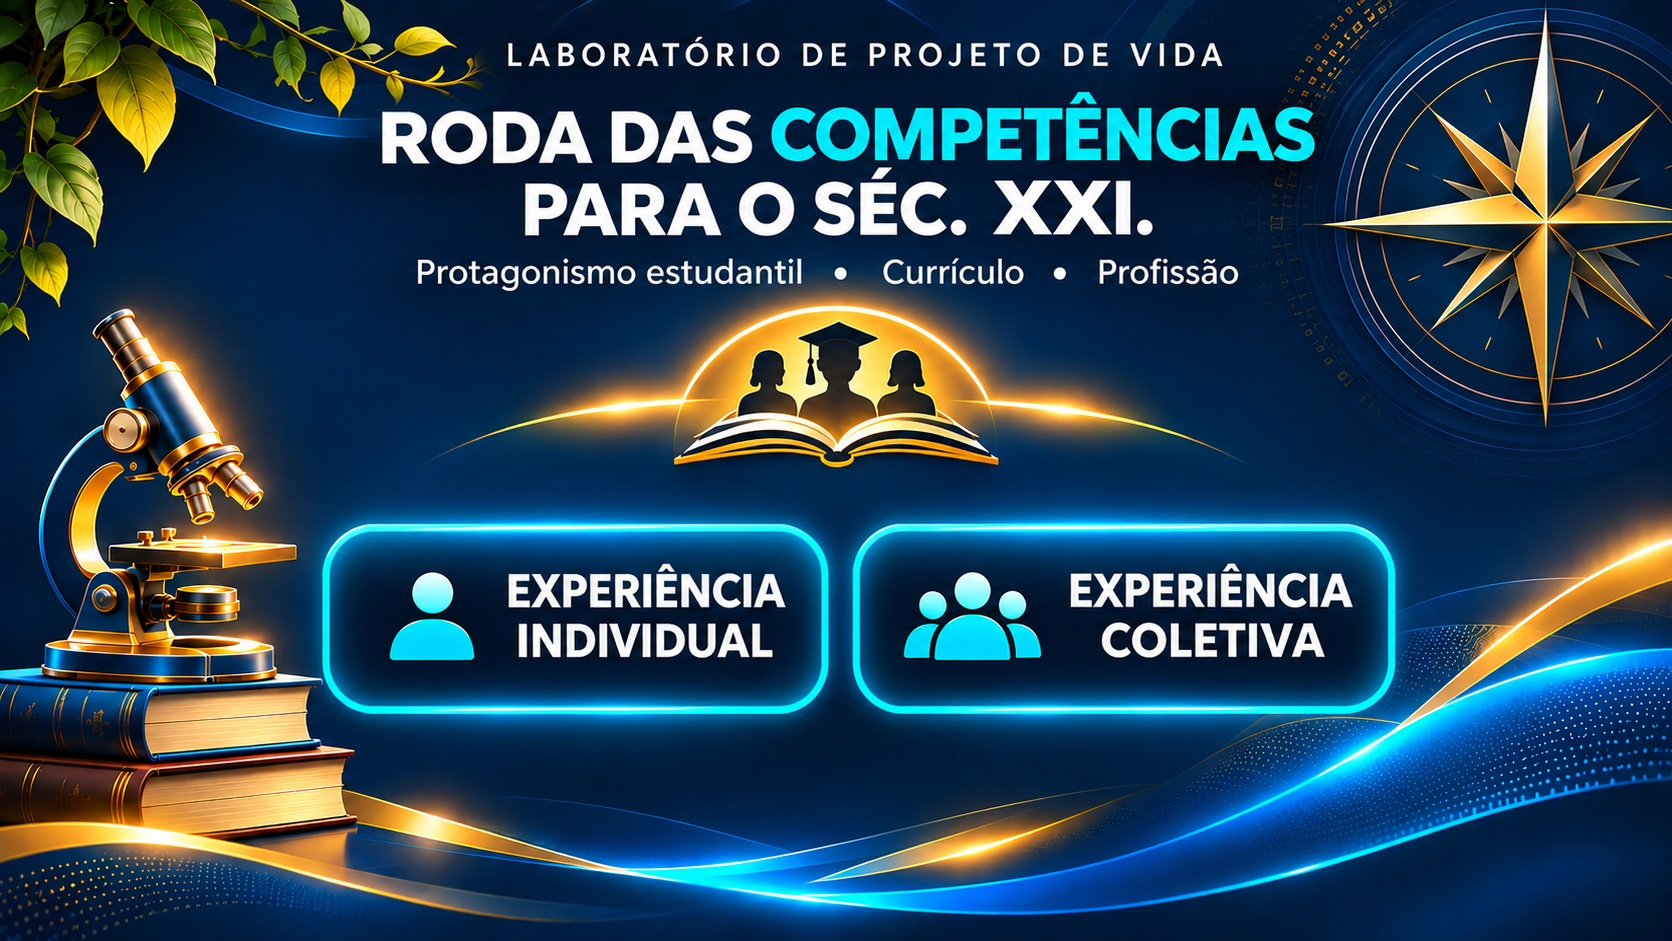
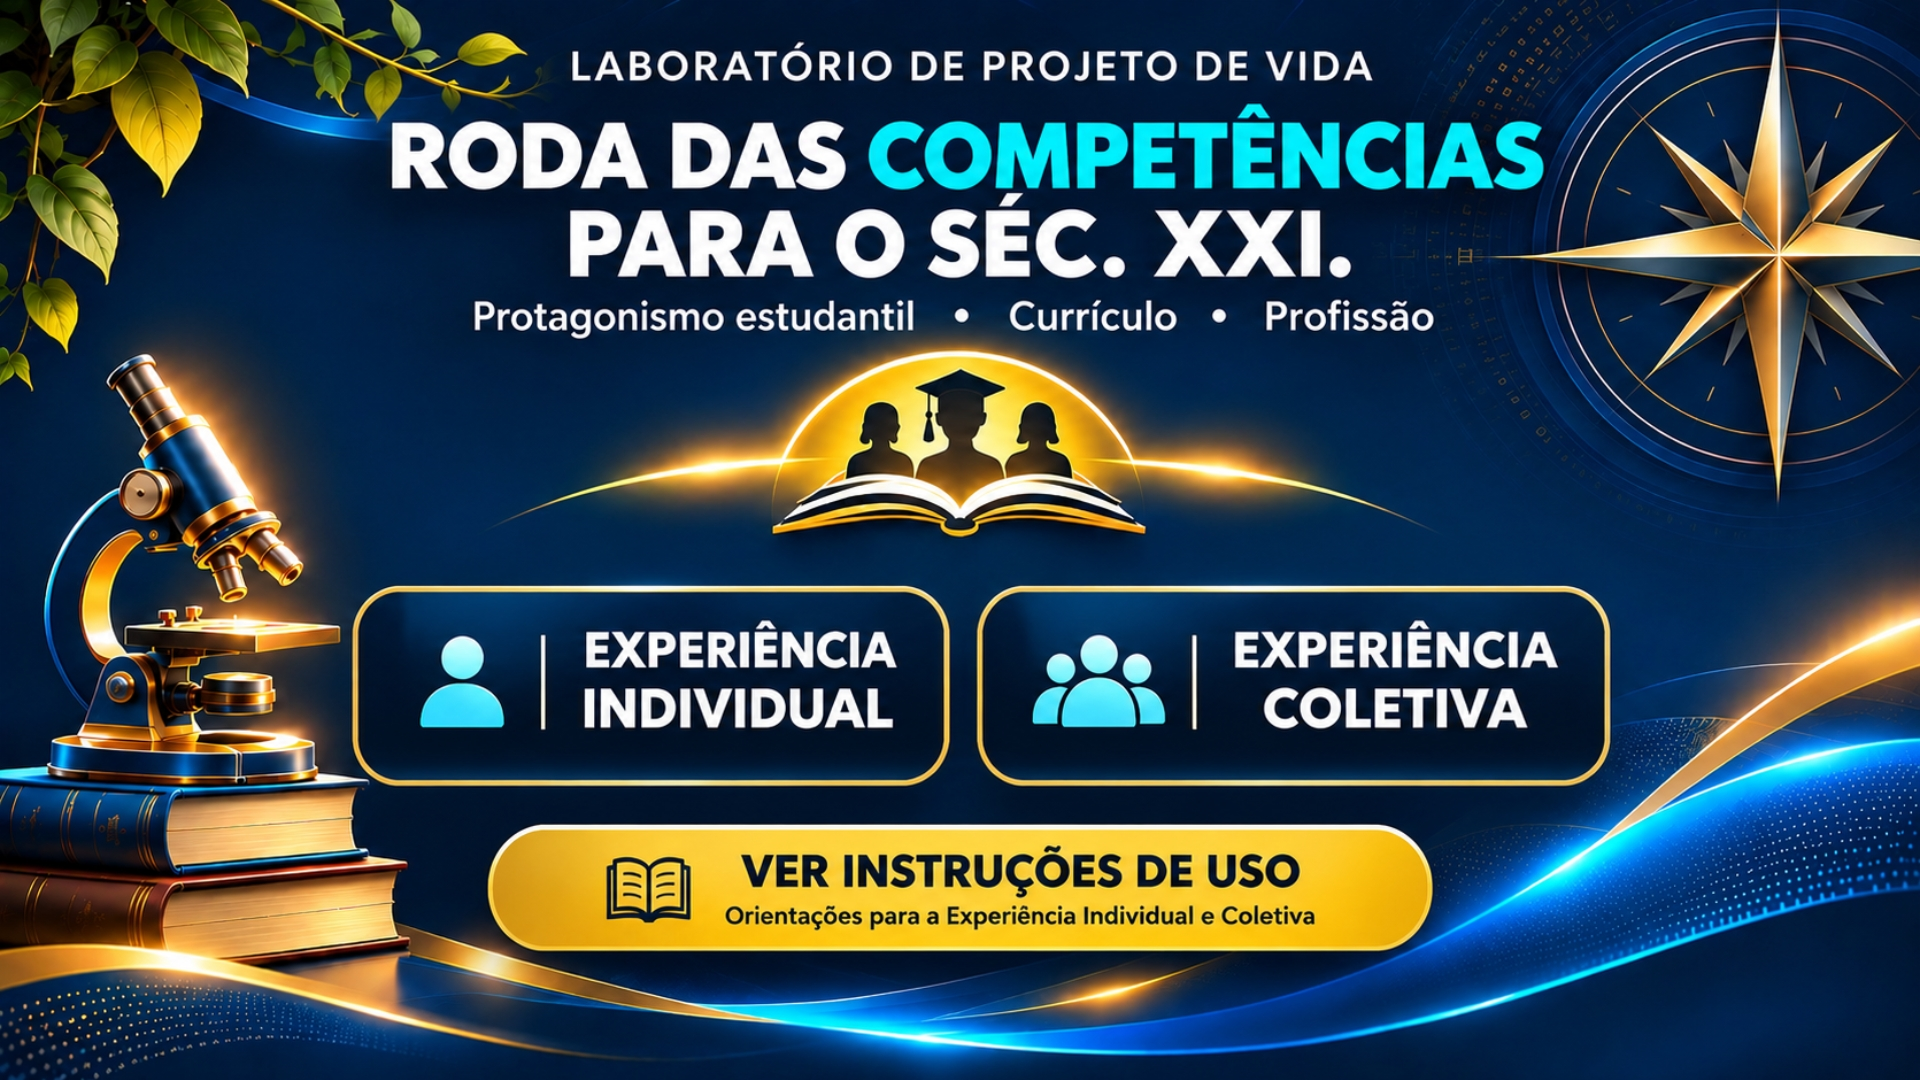
Add files via upload

diff --git a/style.css b/style.css
@@ -1511,3 +1511,211 @@ html body #welcome.login-v67 .instructions-dialog h3{
    font-size:clamp(52px,3.5vw,74px)!important;
  }
 }
+
+
+/* ============================================================
+   V69 — REGRAS CANÔNICAS DE APRESENTAÇÃO
+   LOGIN.jpg = arte oficial; botões invisíveis, porém acessíveis,
+   posicionados exatamente sobre as áreas ilustradas da imagem.
+   ============================================================ */
+html body #welcome.login-v67:not(.hidden){padding:0!important;gap:0!important;min-height:100dvh!important;background:#04172d!important;}
+html body #welcome.login-v67 .login-stage{
+ width:min(100vw,177.58dvh)!important;max-width:none!important;
+ aspect-ratio:1671/941!important;
+ background:#04172d url("LOGIN.jpg") center / 100% 100% no-repeat!important;
+ box-shadow:none!important;border-radius:0!important;
+ position:relative!important;
+}
+html body #welcome.login-v67 .login-actions{position:absolute!important;inset:0!important;}
+html body #welcome.login-v67 .login-hotspot{
+ top:53.4%!important;height:18.2%!important;border-radius:9%!important;
+ background:transparent!important;border:0!important;box-shadow:none!important;
+ cursor:pointer!important;opacity:1!important;
+}
+html body #welcome.login-v67 #chooseIndividual{left:18.1%!important;width:30.7%!important;}
+html body #welcome.login-v67 #chooseCollective{left:50.2%!important;width:32.5%!important;}
+html body #welcome.login-v67 .login-instructions{
+ position:absolute!important;z-index:4!important;
+ top:75.3%!important;left:25.1%!important;width:49.1%!important;height:11.7%!important;
+ display:block!important;padding:0!important;margin:0!important;
+ background:transparent!important;border:0!important;border-radius:60px!important;
+ color:transparent!important;box-shadow:none!important;cursor:pointer!important;
+ font-size:0!important;
+}
+html body #welcome.login-v67 .login-instructions span{opacity:0!important;}
+html body #welcome.login-v67 .login-hotspot:hover,
+html body #welcome.login-v67 .login-instructions:hover{
+ background:rgba(255,215,100,.07)!important;box-shadow:inset 0 0 0 2px rgba(255,226,135,.50)!important;
+}
+html body #welcome.login-v67 .login-hotspot:focus-visible,
+html body #welcome.login-v67 .login-instructions:focus-visible{
+ outline:4px solid #fff4a4!important;outline-offset:2px!important;
+}
+/* A caixa da pergunta acompanha o modelo de referência sem
+   interferir nos valores registrados pelo JavaScript. */
+html body #pergunta.v46-question-panel:not(.hidden){
+ min-height:calc(100dvh - 155px)!important;
+ padding:clamp(10px,1.4vh,20px)!important;
+}
+html body #pergunta.v46-question-panel:not(.hidden) .v45-question-core{
+ width:min(100%,1150px)!important;max-width:1150px!important;
+ gap:clamp(8px,1.2vh,15px)!important;
+}
+html body #pergunta.v46-question-panel:not(.hidden) #qtext.question{
+ width:min(100%,1050px)!important;max-width:1050px!important;
+ min-height:clamp(105px,16vh,185px)!important;
+ padding:clamp(14px,2vh,28px) clamp(20px,3vw,48px)!important;
+ font-size:clamp(36px,3.6vw,70px)!important;
+ line-height:1.1!important;
+ border:3px solid #ffcc42!important;border-radius:26px!important;
+ background:rgba(2,19,41,.93)!important;
+ box-shadow:0 0 22px rgba(255,196,45,.38)!important;
+}
+html body #pergunta.v46-question-panel:not(.hidden) #qcontrols{
+ width:min(100%,1050px)!important;max-width:1050px!important;
+}
+html body #pergunta.v46-question-panel:not(.hidden) .v45-reveals{
+ grid-template-columns:repeat(2,minmax(0,1fr))!important;
+ gap:16px!important;
+}
+html body #pergunta.v46-question-panel:not(.hidden) .v45-bridge{
+ border:2px solid #1ed3f2!important;border-radius:15px!important;
+ box-shadow:0 0 12px rgba(0,195,245,.20)!important;
+}
+html body #pergunta.v46-question-panel:not(.hidden) .v45-reveal-head{
+ min-height:48px!important;font-size:clamp(17px,1.4vw,24px)!important;
+ background:linear-gradient(180deg,#0b648d,#06304f)!important;
+}
+html body #pergunta.v46-question-panel:not(.hidden) .v45-comment-wrap{
+ border:2px solid #71c9ee!important;border-radius:15px!important;
+ padding:10px 13px!important;background:rgba(3,26,50,.88)!important;
+}
+html body #pergunta.v46-question-panel:not(.hidden) #note{
+ min-height:clamp(65px,9vh,110px)!important;
+ font-size:clamp(15px,1.15vw,21px)!important;
+}
+html body #pergunta.v46-question-panel:not(.hidden) #save{
+ background:linear-gradient(135deg,#20476a,#245d86)!important;
+ border:2px solid #9cdbff!important;color:white!important;
+}
+html body #pergunta.v46-question-panel:not(.hidden) #backWheel{
+ background:linear-gradient(135deg,#0b603e,#0d9658)!important;
+ border:2px solid #83ffae!important;color:white!important;
+}
+/* Aumentar o tamanho físico da roda, sem modificar sorteio ou animação. */
+html body #roda .wheel-wrap{
+ width:min(100%,min(76vh,790px))!important;
+ max-width:790px!important;
+ margin-inline:auto!important;
+}
+html body #roda #wheel{display:block!important;width:100%!important;height:auto!important;aspect-ratio:1!important;}
+@media(min-width:1400px){html body #roda .wheel-wrap{width:min(100%,min(82vh,860px))!important;max-width:860px!important;}}
+@media(max-width:760px){
+ html body #pergunta.v46-question-panel:not(.hidden) #qtext.question{font-size:clamp(27px,5.6vw,44px)!important;}
+ html body #pergunta.v46-question-panel:not(.hidden) .v45-reveals{grid-template-columns:1fr!important;}
+ html body #roda .wheel-wrap{width:min(100%,95vw)!important;}
+}
+
+
+/* ============================================================
+   V69 — REGRAS CANÔNICAS DE APRESENTAÇÃO
+   LOGIN.jpg = arte oficial; botões invisíveis, porém acessíveis,
+   posicionados exatamente sobre as áreas ilustradas da imagem.
+   ============================================================ */
+html body #welcome.login-v67:not(.hidden){padding:0!important;gap:0!important;min-height:100dvh!important;background:#04172d!important;}
+html body #welcome.login-v67 .login-stage{
+ width:min(100vw,177.58dvh)!important;max-width:none!important;
+ aspect-ratio:1671/941!important;
+ background:#04172d url("LOGIN.jpg") center / 100% 100% no-repeat!important;
+ box-shadow:none!important;border-radius:0!important;
+ position:relative!important;
+}
+html body #welcome.login-v67 .login-actions{position:absolute!important;inset:0!important;}
+html body #welcome.login-v67 .login-hotspot{
+ top:53.4%!important;height:18.2%!important;border-radius:9%!important;
+ background:transparent!important;border:0!important;box-shadow:none!important;
+ cursor:pointer!important;opacity:1!important;
+}
+html body #welcome.login-v67 #chooseIndividual{left:18.1%!important;width:30.7%!important;}
+html body #welcome.login-v67 #chooseCollective{left:50.2%!important;width:32.5%!important;}
+html body #welcome.login-v67 .login-instructions{
+ position:absolute!important;z-index:4!important;
+ top:75.3%!important;left:25.1%!important;width:49.1%!important;height:11.7%!important;
+ display:block!important;padding:0!important;margin:0!important;
+ background:transparent!important;border:0!important;border-radius:60px!important;
+ color:transparent!important;box-shadow:none!important;cursor:pointer!important;
+ font-size:0!important;
+}
+html body #welcome.login-v67 .login-instructions span{opacity:0!important;}
+html body #welcome.login-v67 .login-hotspot:hover,
+html body #welcome.login-v67 .login-instructions:hover{
+ background:rgba(255,215,100,.07)!important;box-shadow:inset 0 0 0 2px rgba(255,226,135,.50)!important;
+}
+html body #welcome.login-v67 .login-hotspot:focus-visible,
+html body #welcome.login-v67 .login-instructions:focus-visible{
+ outline:4px solid #fff4a4!important;outline-offset:2px!important;
+}
+/* A caixa da pergunta acompanha o modelo de referência sem
+   interferir nos valores registrados pelo JavaScript. */
+html body #pergunta.v46-question-panel:not(.hidden){
+ min-height:calc(100dvh - 155px)!important;
+ padding:clamp(10px,1.4vh,20px)!important;
+}
+html body #pergunta.v46-question-panel:not(.hidden) .v45-question-core{
+ width:min(100%,1150px)!important;max-width:1150px!important;
+ gap:clamp(8px,1.2vh,15px)!important;
+}
+html body #pergunta.v46-question-panel:not(.hidden) #qtext.question{
+ width:min(100%,1050px)!important;max-width:1050px!important;
+ min-height:clamp(105px,16vh,185px)!important;
+ padding:clamp(14px,2vh,28px) clamp(20px,3vw,48px)!important;
+ font-size:clamp(36px,3.6vw,70px)!important;
+ line-height:1.1!important;
+ border:3px solid #ffcc42!important;border-radius:26px!important;
+ background:rgba(2,19,41,.93)!important;
+ box-shadow:0 0 22px rgba(255,196,45,.38)!important;
+}
+html body #pergunta.v46-question-panel:not(.hidden) #qcontrols{
+ width:min(100%,1050px)!important;max-width:1050px!important;
+}
+html body #pergunta.v46-question-panel:not(.hidden) .v45-reveals{
+ grid-template-columns:repeat(2,minmax(0,1fr))!important;
+ gap:16px!important;
+}
+html body #pergunta.v46-question-panel:not(.hidden) .v45-bridge{
+ border:2px solid #1ed3f2!important;border-radius:15px!important;
+ box-shadow:0 0 12px rgba(0,195,245,.20)!important;
+}
+html body #pergunta.v46-question-panel:not(.hidden) .v45-reveal-head{
+ min-height:48px!important;font-size:clamp(17px,1.4vw,24px)!important;
+ background:linear-gradient(180deg,#0b648d,#06304f)!important;
+}
+html body #pergunta.v46-question-panel:not(.hidden) .v45-comment-wrap{
+ border:2px solid #71c9ee!important;border-radius:15px!important;
+ padding:10px 13px!important;background:rgba(3,26,50,.88)!important;
+}
+html body #pergunta.v46-question-panel:not(.hidden) #note{
+ min-height:clamp(65px,9vh,110px)!important;
+ font-size:clamp(15px,1.15vw,21px)!important;
+}
+html body #pergunta.v46-question-panel:not(.hidden) #save{
+ background:linear-gradient(135deg,#20476a,#245d86)!important;
+ border:2px solid #9cdbff!important;color:white!important;
+}
+html body #pergunta.v46-question-panel:not(.hidden) #backWheel{
+ background:linear-gradient(135deg,#0b603e,#0d9658)!important;
+ border:2px solid #83ffae!important;color:white!important;
+}
+/* Aumentar o tamanho físico da roda, sem modificar sorteio ou animação. */
+html body #roda .wheel-wrap{
+ width:min(100%,min(76vh,790px))!important;
+ max-width:790px!important;
+ margin-inline:auto!important;
+}
+html body #roda #wheel{display:block!important;width:100%!important;height:auto!important;aspect-ratio:1!important;}
+@media(min-width:1400px){html body #roda .wheel-wrap{width:min(100%,min(82vh,860px))!important;max-width:860px!important;}}
+@media(max-width:760px){
+ html body #pergunta.v46-question-panel:not(.hidden) #qtext.question{font-size:clamp(27px,5.6vw,44px)!important;}
+ html body #pergunta.v46-question-panel:not(.hidden) .v45-reveals{grid-template-columns:1fr!important;}
+ html body #roda .wheel-wrap{width:min(100%,95vw)!important;}
+}
